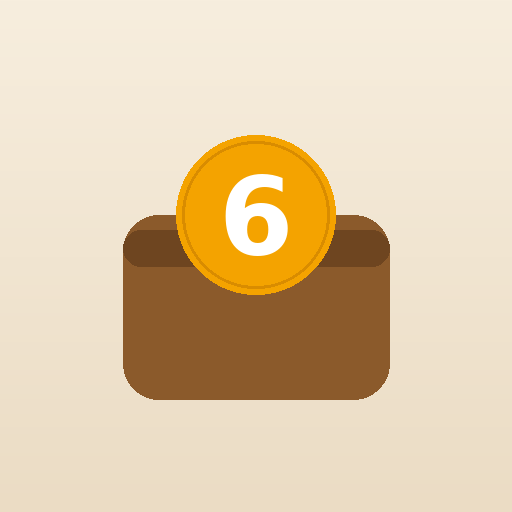
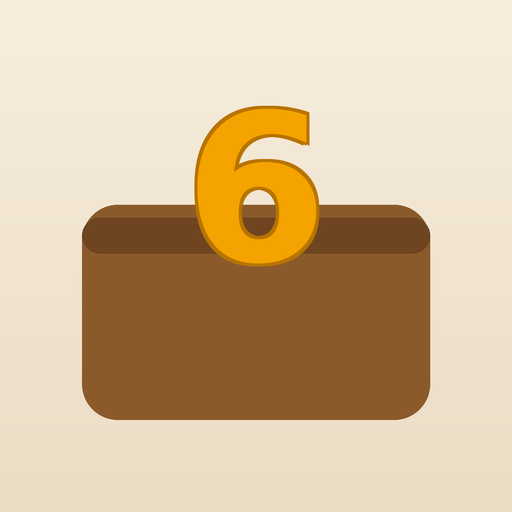
Add files via upload

Changed region(s): [[0.1562, 0.1875, 0.8438, 0.8438]]

diff --git a/index.html b/index.html
@@ -126,19 +126,23 @@ body{margin:0;background:var(--bg);color:var(--text);font-family:'Be Vietnam Pro
 .boot-splash{position:fixed;inset:0;z-index:9999;display:flex;align-items:center;justify-content:center;background:#F3EAD9;transition:opacity .45s ease;}
 .boot-splash.hide{opacity:0;pointer-events:none;}
 .boot-splash svg{overflow:visible;}
-.boot-six{animation:bootSixUp .7s cubic-bezier(.3,1.4,.5,1) forwards;animation-delay:.35s;}
+.boot-six{animation:bootSixUp 1.05s cubic-bezier(.25,1.3,.4,1) forwards;animation-delay:.3s;transform-origin:150px 175px;}
 @keyframes bootSixUp{
- 0%{transform:translateY(0) scale(1);}
- 100%{transform:translateY(-90px) scale(0.72);}
+ 0%{transform:translateY(115px) scale(0.82);}
+ 100%{transform:translateY(0) scale(1);}
 }
-.boot-coin{opacity:0;animation:bootCoinFall .75s ease-in forwards;}
-.boot-coin.coin2{animation-delay:1.05s;}
-.boot-coin.coin3{animation-delay:1.15s;}
-.boot-coin{animation-delay:.95s;}
+.boot-coin{opacity:0;animation:bootCoinFall 1.05s ease-in forwards;}
+.boot-coin.c1{animation-delay:1.15s;}
+.boot-coin.c2{animation-delay:1.30s;}
+.boot-coin.c3{animation-delay:1.45s;}
+.boot-coin.c4{animation-delay:1.55s;}
+.boot-coin.c5{animation-delay:1.70s;}
+.boot-coin.c6{animation-delay:1.85s;}
+.boot-coin.c7{animation-delay:1.95s;}
 @keyframes bootCoinFall{
  0%{opacity:1;transform:translateY(0);}
- 75%{opacity:1;}
- 100%{opacity:0;transform:translateY(150px) scale(.5);}
+ 78%{opacity:1;}
+ 100%{opacity:0;transform:translateY(195px) scale(.5);}
 }
 .guide-item.plain{color:var(--text-soft);}
 .guide-cta{color:var(--accent);font-weight:700;font-size:13.5px;white-space:nowrap;}
@@ -154,18 +158,18 @@ body{margin:0;background:var(--bg);color:var(--text);font-family:'Be Vietnam Pro
 </head>
 <body>
 <div id="bootSplash" class="boot-splash" aria-hidden="true">
- <svg viewBox="0 0 300 300" width="180" height="180">
-  <rect x="65" y="135" width="170" height="105" rx="16" fill="#8B5A2B"/>
-  <rect x="65" y="128" width="170" height="26" rx="12" fill="#6E4520"/>
-  <circle cx="150" cy="141" r="5" fill="#F4A300"/>
-  <circle class="boot-coin" cx="108" cy="10" r="13" fill="#F4A300"/>
-  <circle class="boot-coin coin2" cx="150" cy="-14" r="13" fill="#F4A300"/>
-  <circle class="boot-coin coin3" cx="192" cy="10" r="13" fill="#F4A300"/>
-  <g class="boot-six">
-   <circle cx="150" cy="150" r="46" fill="#F4A300"/>
-   <circle cx="150" cy="150" r="42" fill="none" stroke="#D98C00" stroke-width="3"/>
-   <text x="150" y="171" text-anchor="middle" font-size="60" font-weight="800" fill="#fff" font-family="'Be Vietnam Pro',system-ui,sans-serif">6</text>
-  </g>
+ <svg viewBox="0 0 300 300" width="230" height="230" overflow="visible">
+  <rect x="42" y="148" width="216" height="128" rx="18" fill="#8B5A2B"/>
+  <rect x="42" y="140" width="216" height="30" rx="13" fill="#6E4520"/>
+  <circle cx="150" cy="155" r="6" fill="#F4A300"/>
+  <circle class="boot-coin c1" cx="80" cy="-10" r="15" fill="#F4A300"/>
+  <circle class="boot-coin c2" cx="115" cy="-40" r="15" fill="#F4A300"/>
+  <circle class="boot-coin c3" cx="150" cy="-15" r="15" fill="#F4A300"/>
+  <circle class="boot-coin c4" cx="185" cy="-45" r="15" fill="#F4A300"/>
+  <circle class="boot-coin c5" cx="220" cy="-10" r="15" fill="#F4A300"/>
+  <circle class="boot-coin c6" cx="98" cy="-70" r="15" fill="#F4A300"/>
+  <circle class="boot-coin c7" cx="202" cy="-70" r="15" fill="#F4A300"/>
+  <text class="boot-six" x="150" y="175" text-anchor="middle" font-size="120" font-weight="800" fill="#F4A300" stroke="#B87400" stroke-width="3" font-family="'Be Vietnam Pro',system-ui,sans-serif">6</text>
  </svg>
 </div>
 <div class="wrap"><div id="app"></div></div>
@@ -565,13 +569,15 @@ function scrNewExpenseForm(opts){
  const j=JARS.find(x=>x.k===opts.jar);
  const editing=opts.editId?tx.find(x=>x.id===opts.editId):null;
  const g=GUIDES[opts.jar];
+ const remain=jarRemain(opts.jar); const rcls=remain<0?'neg':'pos';
+ const titleRight=`<span class="${rcls} amt-lg">${fmt(remain)} ₫</span>`;
  return screenWrap(j.i+' '+j.l,`
   <div class="form-row"><label>Số tiền</label><input type="text" inputmode="numeric" id="out-amount" placeholder="0" value="${editing?fmt(editing.amount):''}" oninput="formatAmountInput(this)"></div>
   <div class="form-row"><label>Nội dung</label><input type="text" id="out-note" placeholder="Ghi chú (vd. Ăn trưa)" value="${editing?esc(editing.note||''):''}"></div>
   <button class="btn primary" onclick="confirmExpense('${opts.jar}','${opts.editId||''}')">${editing?'✓ Cập nhật':'✓ Xác nhận'}</button>
   <div class="guide-desc" style="margin-top:18px;">${g.desc}</div>
   ${g.items.map(it=> it.link ? `<a class="guide-item" href="${it.link}" target="_blank" rel="noopener" onclick="trackClick('${opts.jar}','${esc(it.label)}','${it.link}')"><span>${it.label}</span><span class="guide-cta">Mua ngay ↗</span></a><div class="affiliate-note">Link tiếp thị liên kết</div>` : `<div class="guide-item plain"><span>${it.label}</span></div>`).join('')}
- `);
+ `,null,titleRight);
 }
 function confirmExpense(jar,editId){
  const el=document.getElementById('out-amount'); const amt=parseAmount(el.value);
@@ -600,6 +606,6 @@ if('serviceWorker' in navigator){
 setTimeout(()=>{
  const sp=document.getElementById('bootSplash');
  if(sp){ sp.classList.add('hide'); setTimeout(()=>sp.remove(),500); }
-},1650);</script>
+},2700);</script>
 </body>
 </html>

diff --git a/sw.js b/sw.js
@@ -1,7 +1,7 @@
 // Service Worker cho 6PAY — cho phép app hoạt động khi offline
 // và được trình duyệt nhận diện là "có thể cài đặt" (PWA).
 const CACHE_NAME='6pay-cache-v1';
-const ASSETS=['./','./index.html','./manifest.json','./icon-192.png','./icon-512.png'];
+const ASSETS=['./','./index.html','./manifest.json','./icon-192.png','./icon-512.png','./icon-1024.png'];
 
 self.addEventListener('install',e=>{
  e.waitUntil(caches.open(CACHE_NAME).then(c=>c.addAll(ASSETS)).catch(()=>{}));
